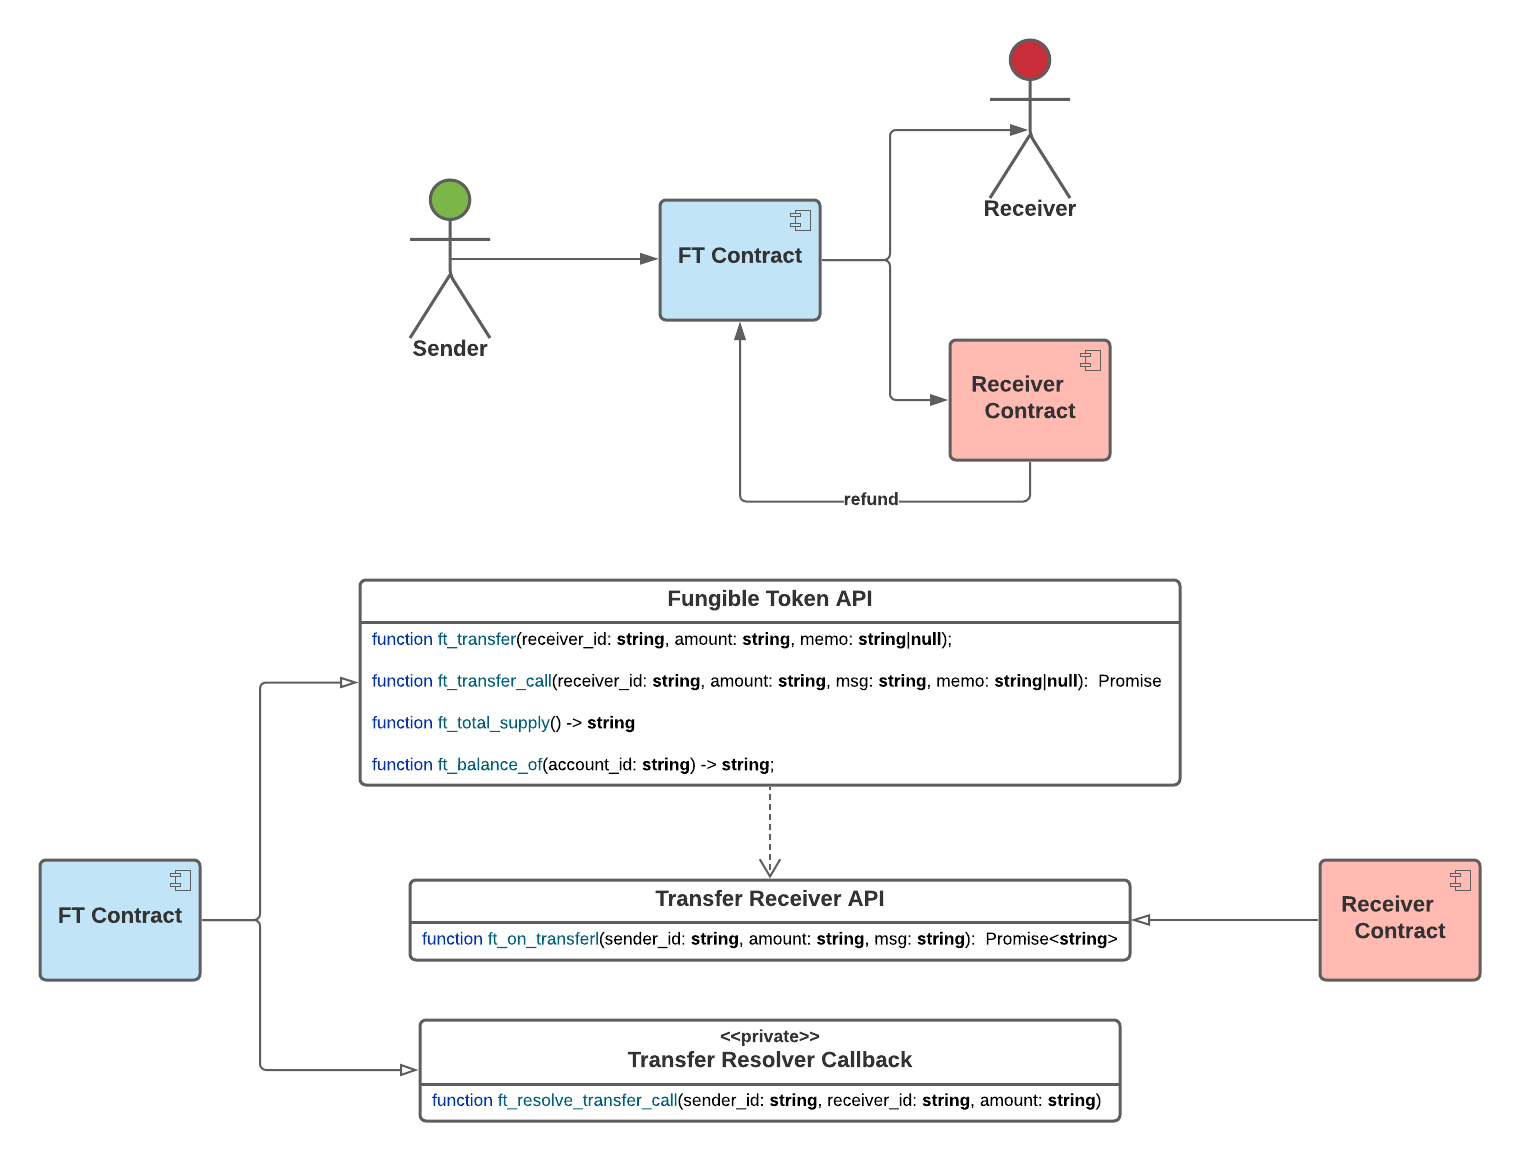
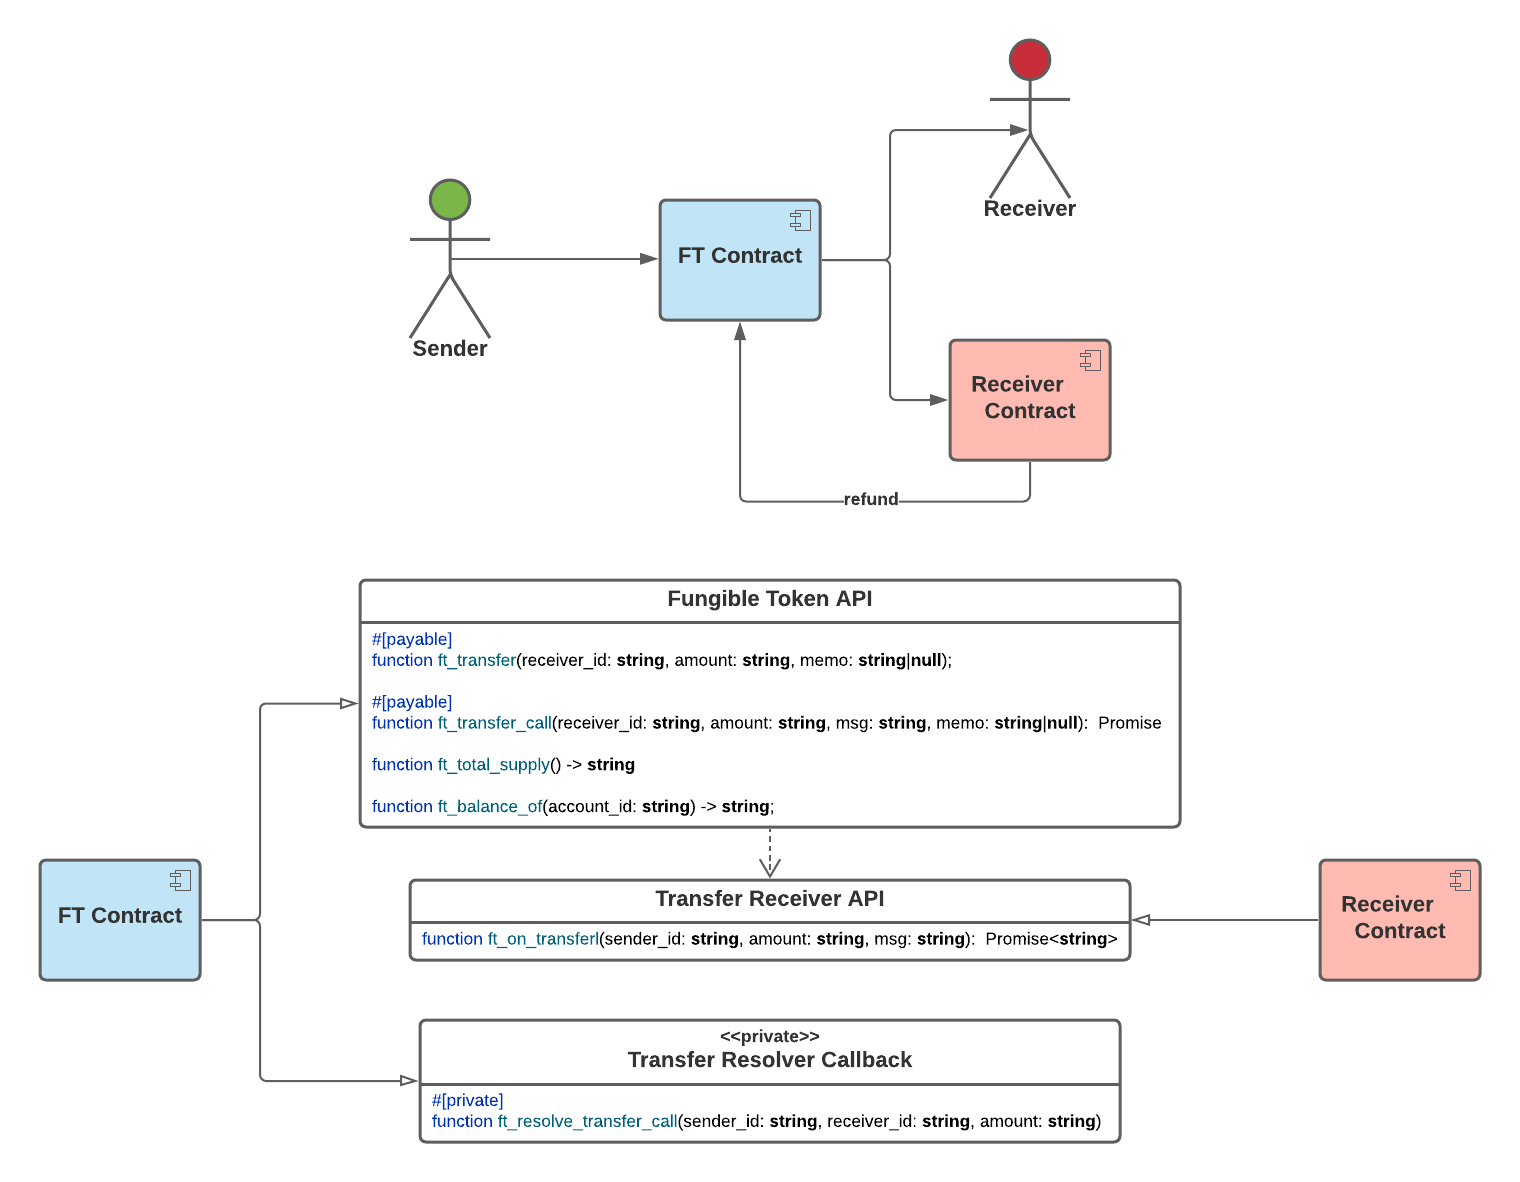
STAKE NEP-41 tutorial - WIP

diff --git a/network-documentation/near/tutorials/stake/2-fungible-token.md b/network-documentation/near/tutorials/stake/2-fungible-token.md
@@ -1,11 +1,13 @@
-# The New and Improved NEAR Fungible Token Standard (NEP-141) Has Arrived
+# Show Me the Money: The New and Improved Fungible Token Standard (NEP-141) Has Arrived
 
-> "Money makes the world go round."
-
-The simplest way to think of fungible tokens is to think of them as money. How does money make the world go round? The 
-answer is simple ... because it enables the flow of capital through the global economy. Bitcoin introduced us all to the 
-concept of money on the blockchain. The proof of concept was successful. Bitcoin is a fantastic store of value, but
-it simply cannot scale to meet the demands of today's global economy - or local economy for that matter. 
+## _"Money makes the world go round."_
+The simplest way to explain fungible tokens is money. If you know money then you already know fungible tokens. NEAR is an
+example of a fungible token, i.e., a crypto**CURRENCY**. How does money make the world go round? The answer is simple ... 
+because money enables the ease of flow of capital and trade. Flowing capital and trade results in a healthy economy that 
+results in wealth creation and prosperity. The opposite happens when capital flow is hampered. Cryptocurrency is the latest 
+technological breakthrough for money. Bitcoin was the first successful proof of concept for cryptocurrency. Bitcoin 
+is a fantastic store of value, but it simply cannot scale to meet the demands of today's global economy - or local economy 
+for that matter. 
 
 This is where NEAR can step in and bridge the gap. NEAR shines in terms of speed, scalability, and cost. NEAR's first
 attempt to bootstrap the ecosystem with an FT (**F**ungible **T**oken) standard was [NEP-21](https://nomicon.io/Standards/Tokens/FungibleToken.html).
@@ -14,26 +16,26 @@ token standard. However, after living in the wild for a while, ERC-20 problems w
 - [What's Wrong With ERC-20 Token](https://ihodl.com/analytics/2018-10-04/whats-wrong-erc-20-token/)
 - [Critical problems of ERC20 token standard](https://medium.com/@dexaran820/erc20-token-standard-critical-problems-3c10fd48657b)
 
+The bottom line always comes down to money. The key to NEAR's success will be its ability to attract capital flows into
+NEAR through tokens. We need to come together as a community to design and build the best token solution and experience 
+on NEAR.
+
 > Hindsight is 20/20
 
-Long story short, NEAR can do much better than ERC-20 / NEP-21. The NEAR community is coming together to design the next 
-generation token standards that are needed to make the dream a reality. The first token standard produced is 
-[Fungible Token Core Standard NEP-141](https://github.com/near/NEPs/discussions/146). Yours truly has been actively 
-involved in the process, and in this tutorial I will present the new and improved FT core standard - hence forth NEP-141.
-As a reference implementation, I will show you how I implemented NEP-41 for the [STAKE token](https://github.com/oysterpack/oysterpack-near-stake-token).
-- NOTE: as of this writing, NEP-141 official documentation has not yet been published. I will be sharing with you my 
-  knowledge and understanding of NEP-141 based on the discussions and meetings I have personally been involved in.
+Long story short, NEAR can do much better than ERC-20 / NEP-21. The NEAR community has been coming together to design the 
+next generation token standards that are needed to make the dream a reality. The first result of that collective effort 
+has produced [Fungible Token Core Standard NEP-141](https://github.com/near/NEPs/discussions/146). Yours truly has been 
+actively involved in the process, and in this tutorial lesson I will do a deep dive into [NEP-141]((https://github.com/near/NEPs/discussions/146))
+and walk you through the new API. The discussion had been lengthy, and my goal here is to sum it all up for you here.
+- **NOTE**: as of this writing, NEP-141 official documentation has not yet been published. I will be sharing with you my 
+  knowledge and understanding of NEP-141 based on the discussions and meetings I have personally been involved in. I invite
+  you to join in on the discussion.
 
 # Fungible Token Core Standard (NEP-141)
-NEP-141 defines the "core" standard API that centers around token transfer. It is not the full and final solution to the 
-problem. At a minimum, NEP-141 will be dependent on 2 future coming standards:
+NEP-141 defines the "core" standard API that centers around token transfer. It is not the full and final FT solution. 
+It is the core, but at a minimum, NEP-141 will be dependent on 2 future standards to be developed:
 1. account registration
-   - prevents tokens being lost by transferring to non-existent accounts
-   - prevents to
 2. contract metadata
-   - makes it simpler for wallet and application integration
-   - used for presentation
-   - used to discover supported extensions and interfaces
 
 In addition, standards need to be defined to support token burning and minting. That falls outside the scope of this discussion.
 The overall standard design strategy was to use a divide and conquer approach. Instead of designing a single huge standard
@@ -41,28 +43,36 @@ that covers all use cases and edge cases, the strategy is to divide the standard
 following a separation of concerns philosophy. This will enable token functionality and tooling to be rolled out using a
 phased approach.
 
-It probably is obvious why standardizing contract metadata is needed to make integrations with wallets and applications 
-smoother. What is less obvious and what I will dive a little deeper into is how account registration fits into the picture ...
+It probably is obvious why standardizing contract metadata is needed:
+- makes it simpler and smoother for wallet and application integration
+- used for presentation
+- used to discover supported extensions and interfaces
+  
+What is less obvious and what I will dive a little deeper into is how account registration fits into the picture ...
 
 ### What does account registration have to do with fungible tokens?
 This is a trick question. The key issue that account registration addresses is not specific to FT contracts. Account
 registration is needed to address who will pay for [storage staking](https://docs.near.org/docs/concepts/storage#how-much-does-it-cost). 
 This is an issue that needs to be addressed by any multi-user contract that allocates storage for the user on the blockchain.
 Storage staking costs are the most expensive costs to consider for the contract. If storage costs are not managed properly,
-then they can [break the bank](https://docs.near.org/docs/concepts/storage#the-million-cheap-data-additions-attack), or 
-contract in this case.
+then they can [break the bank](https://docs.near.org/docs/concepts/storage#the-million-cheap-data-additions-attack) for 
+the contract.
 
-Thus, FT contracts, and multi-user contracts in general, should be designed to require accounts to pay for their own account 
-storage when the account registers with the contract. The FT contract should escrow the storage staking fees and refund 
-the fees when the account unregisters. "There's no free lunch" and everyone must pay for their own way.
-- NOTE: account registration has other benefits, but we can save that for the  
-  [account registration standard discussion](https://github.com/near/NEPs/discussions/145)
+On NEAR, the contract is responsible to pay for its long term persistent storage. Thus, FT contracts, and multi-user 
+contracts in general, should be designed to pass on storage costs to its user accounts: 
+- contracts should require accounts to pay for their own account storage when the account registers with the contract. 
+- contracts should escrow the storage staking fees and refund the fees when the account unregisters. 
+
+> There's no free lunch ... everyone must pay for their own way
+
+**NOTE**: account registration has other benefits, but we can save that for the 
+[account registration standard discussion](https://github.com/near/NEPs/discussions/145)
   
 ## What Does the FT Core Standard Support?
 ![](../../../../.gitbook/assets/oysterpack-near-stake-token-nep-41.png)
-... a picture says a thousand words ...
+... a picture says a thousand words ... FT core functionality provides:
 - simple transfers
-- transfer calls to contract recipient with support for refunds
+- reactive transfer calls to contract recipient with support for refunds
 - account token balance queries
 - token total supply queries
 
@@ -71,4 +81,67 @@ the fees when the account unregisters. "There's no free lunch" and everyone must
 neutral (as much as possible)
 - string type is used as the de facto platform neutral type - but we will be leveraging Rust's type system in the smart
 contract implementation
+- all FT API functions are namespaced using a prefix naming convention (`ft_`). On NEAR, smart contracts are deployed
+as [WASM](https://webassembly.org/) binaries. At the WASM low level, all functions are effectively in the global namespace 
+and function names must be unique (function overloading is not permitted). Using function prefix names is a trade-off. 
+It enables global functions to be namespaced using a naming convention to avoid function name collisions. For example, a
+contract may want to implement both FT and NFT token transfer interfaces. 
+- `#[payable]` implies that the function supports NEAR to be attached to the function call. I will explain why this is 
+needed below
+  
+## Fungible Token API
+This API is implemented by the FT contract. It provides the core fungible token functionality. Key aspects to call out are:
+
+#### Token transfer functions require exactly 1 yoctoNEAR to be attached to address the following security concern:
+> Due to the nature of function-call permission access keys on NEAR protocol, the method that requires an attached deposit
+can't be called by the restricted access key. If the token contract requires an attached deposit of at least 1
+yoctoNEAR on transfer methods, then the function-call restricted access key will not be able to call them without going
+through the wallet confirmation. This prevents some attacks like fishing through an authorization to a token contract.
+
+#### Token transfers support optional memo
+> Similarly to bank transfer and payment orders, the memo argument enables to reference the transfer to another event 
+(on-chain or off-chain). It is a schema less, so user can use it to reference an external document, invoice, order ID, 
+ticket ID, or other on-chain transaction. With memo you can set a transfer reason, often required for compliance.
+This is also useful and very convenient for implementing FATA (Financial Action Task Force) 
+[guidelines](http://www.fatf-gafi.org/media/fatf/documents/recommendations/RBA-VA-VASPs.pdf) (section 7(b)). 
+Especially a requirement for VASPs (Virtual Asset Service Providers) to collect and transfer customer information during 
+transactions. VASP is any entity which provides to a user token custody, management, exchange or investment services.
+With ERC-20 (and NEP-21) it is not possible to do it in atomic way. With memo field, we can provide such reference in 
+the same transaction and atomically bind it to the money transfer.
+
+### Functions
+```javascript
+#[payable]
+function ft_transfer(receiver_id: string, amount: string, memo: string|null)
+```
+_change method_
+
+Enables simple transfer between accounts.
+- transfers specified `amount` of tokens from the function call's predecessor account to the account specified by `receiver_id`.
+  - the predecessor account is the token sender
+- both accounts must be registered with the contract for transfer to succeed.
+- sender account is required to attach exactly 1 yoctoNEAR to the function call
+  - the purpose to require 1 yoctoNEAR is to address the following security concern explained above
+  - attached yoctoNEAR will be credited to the sender account. Most FT contracts will likely deposit the NEAR into the 
+    account's storage escrow. However, the NEAR can be deposited using a different approach as long as the NEAR can be 
+    made available to be withdrawn from the contract. Even though it's only 1 yoctoNEAR, it's still not **zero** yoctoNEAR.
+
+Arguments:
+- `receiver_id` - the receiver NEAR account ID
+- `amount` - the amount of tokens to transfer. Amount must be a positive number in decimal string representation.
+- `memo` - an optional string field in a free form to associate a memo with this transfer.
+
+Failures:
+- if the attached deposit does not equal 1 yoctoNEAR
+- if either sender or receiver accounts are not registered
+- if transfer `amount` is zero
+- if the sender account has insufficient funds to fulfill the transfer request
+
+```javascript
+#[payable]
+function ft_transfer_call(receiver_id: string, amount: string, msg: string, memo: string|null):  Promise
+```
+
+## Upcoming ...
+As a reference implementation, I will show you how I implemented NEP-41 for the [STAKE token](https://github.com/oysterpack/oysterpack-near-stake-token).
   
